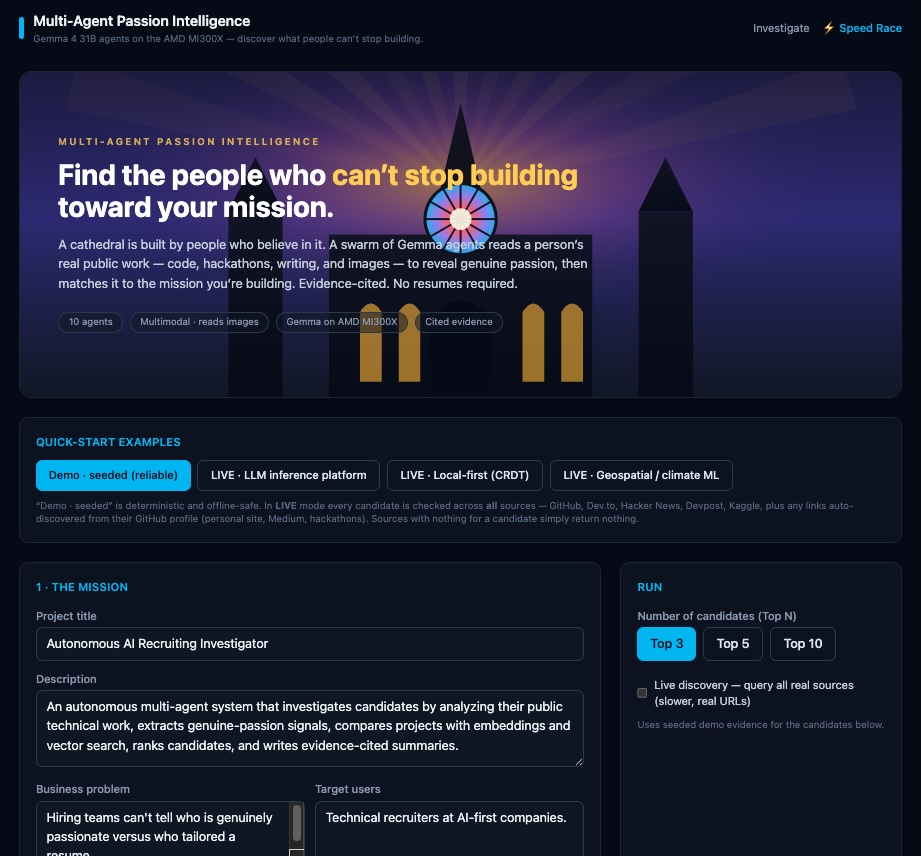
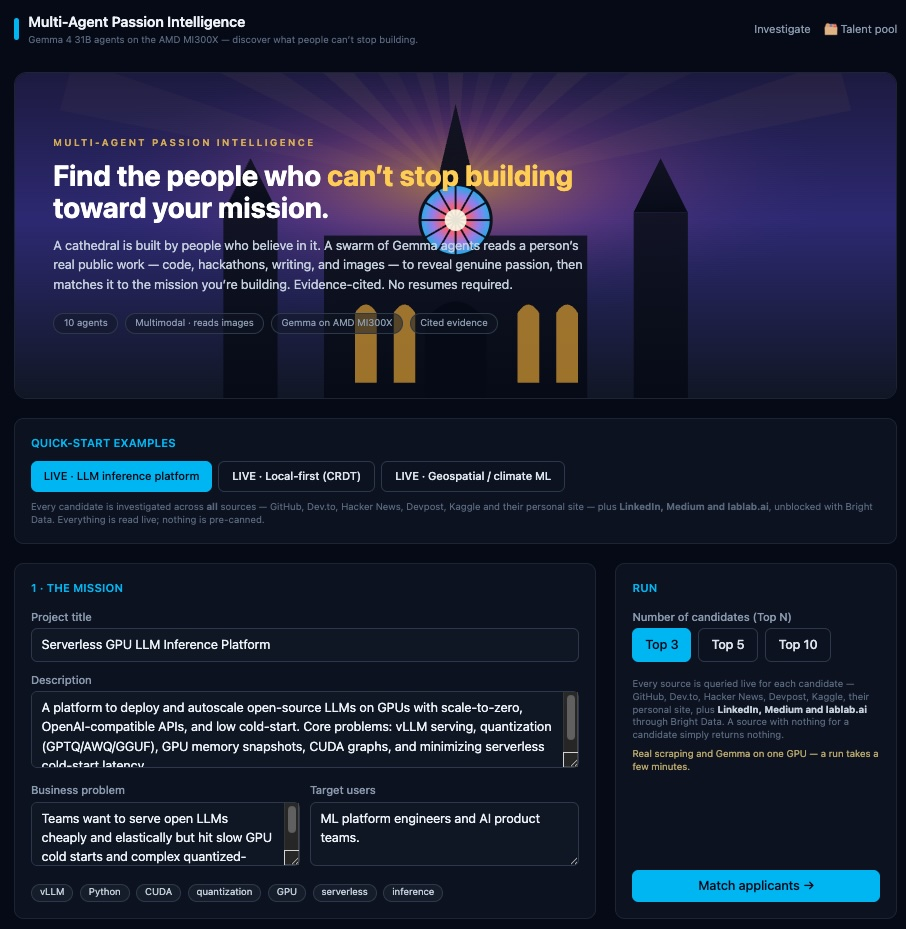
Progress: don't show 100% while still running
Percent counted the step in flight, so the 10th agent (video render, which takes
minutes) hit 100% the instant it *started* — leaving the bar full at "100% ·
running" with the clock ticking. Percent now tracks completed steps (a "running"
step counts as step-1), so video render sits at 90% until it finishes. The UI also
clamps the displayed value to 99% until status is "done", reserving 100% for
actual completion.

diff --git a/frontend/app/analysis/[id]/page.tsx b/frontend/app/analysis/[id]/page.tsx
@@ -79,7 +79,10 @@ export default function AnalysisPage({ params }: { params: { id: string } }) {
     setTab("Rankings");
   }
 
-  const pctDone = events.length ? events[events.length - 1].percent : 0;
+  // Never show 100% while still running — 100% is reserved for the "done" state,
+  // so the bar can't sit full while the clock keeps ticking.
+  const lastPct = events.length ? events[events.length - 1].percent : 0;
+  const pctDone = status === "done" ? 100 : Math.min(lastPct, 99);
 
   return (
     <div>

diff --git a/backend/app/progress.py b/backend/app/progress.py
@@ -19,13 +19,18 @@ _status: dict[str, str] = {}
 
 
 def emit(analysis_id: str, agent: str, status: str, step: int, detail: str = "") -> None:
+    # Percent tracks *completed* steps, not the one in flight. A step that is only
+    # "running" (e.g. the 10th agent rendering the video, which takes minutes) counts
+    # as step-1 done — so the bar never reads 100% while work is still happening. It
+    # reaches 100% only on an "ok"/"done" for the final step.
+    completed = step if status in ("ok", "done") else max(step - 1, 0)
     event = {
         "analysis_id": analysis_id,
         "agent": agent,
         "status": status,            # running | ok | error | done
         "step": step,
         "total": TOTAL_STEPS,
-        "percent": round(min(step, TOTAL_STEPS) / TOTAL_STEPS * 100),
+        "percent": round(min(completed, TOTAL_STEPS) / TOTAL_STEPS * 100),
         "detail": detail,
         "ts": time.time(),
     }